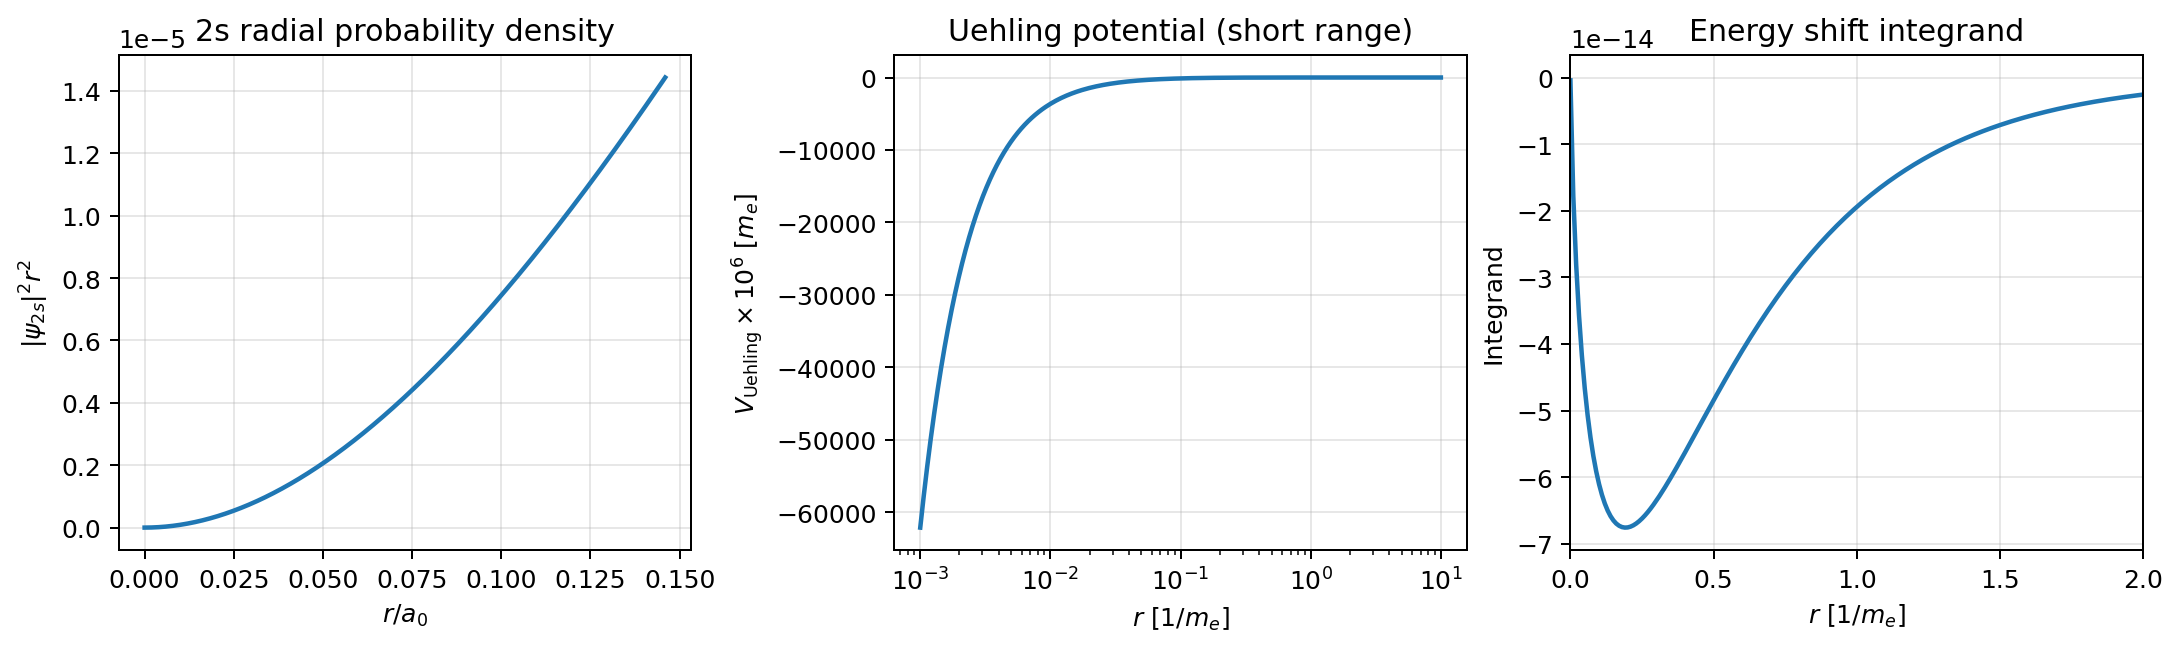
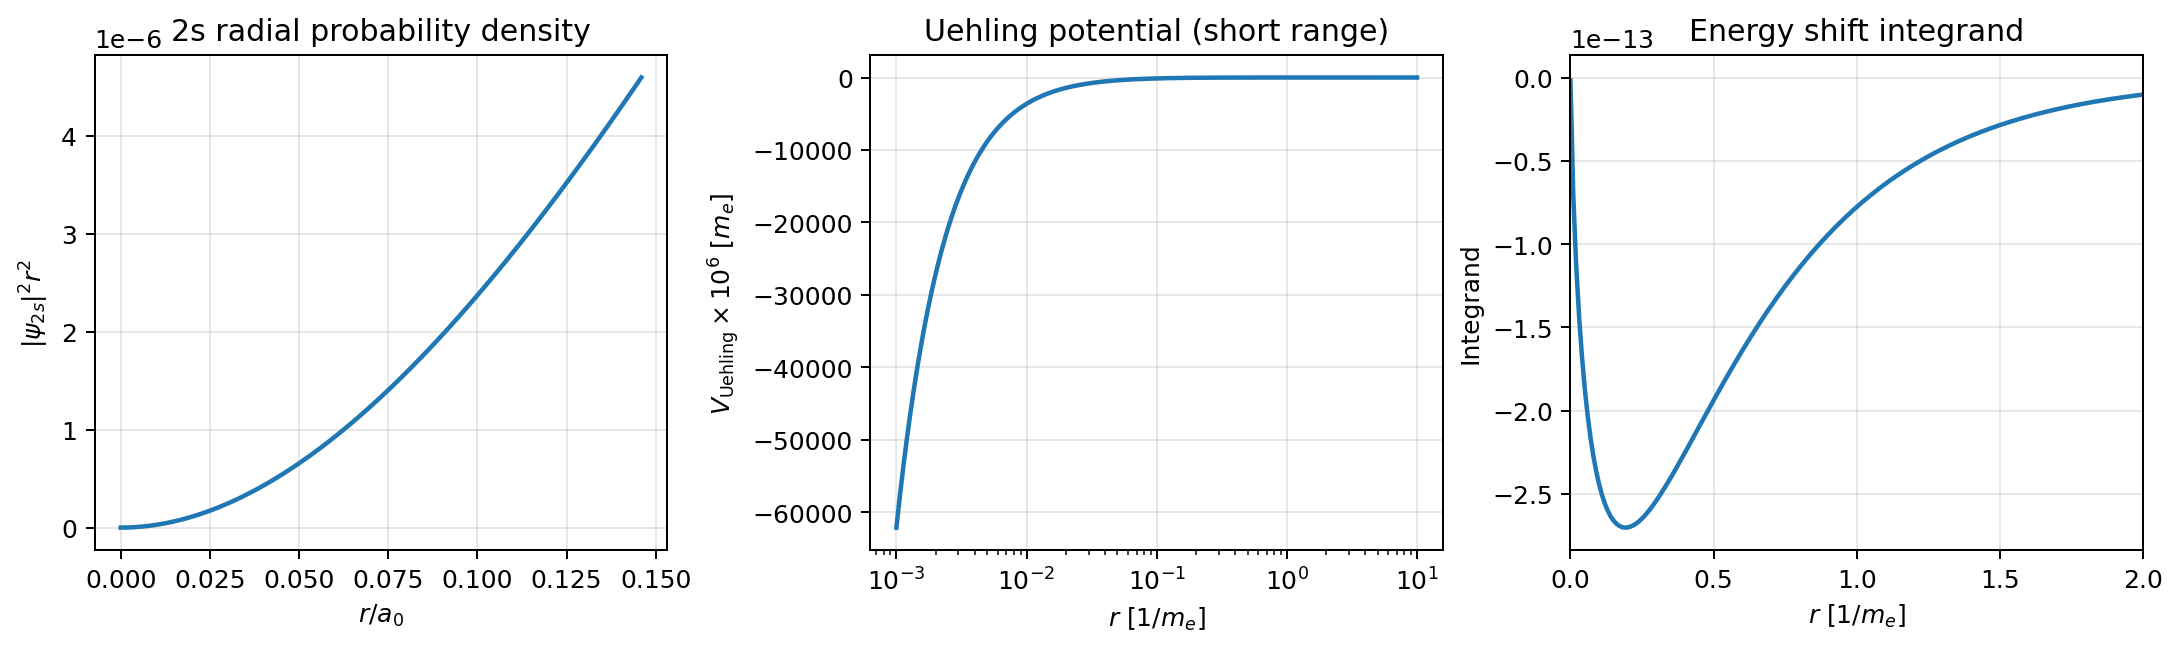
correcting errors

diff --git a/python/lamb_shift.py b/python/lamb_shift.py
@@ -4,84 +4,172 @@ lamb_shift.py
 First-order perturbation theory estimate of the Uehling contribution
 to the hydrogen 2s Lamb shift.
 
-Natural units throughout: hbar = c = m_e = 1.
-Bohr radius a0 = 1/alpha ~ 137.036 (in units of 1/m_e).
+Natural units throughout:
+    ħ = c = m_e = 1
+
+Bohr radius:
+    a0 = 1 / alpha ≈ 137.036  (in units of 1/m_e)
 """
 
 import numpy as np
 from scipy.integrate import quad
+
 from uehling import V_uehling, ALPHA
 
-# Bohr radius in natural units (1/m_e)
-A0 = 1 / ALPHA   # ~ 137.036
+# --------------------------------------------------
+# Constants
+# --------------------------------------------------
+
+# Bohr radius in natural units (1 / m_e)
+A0 = 1.0 / ALPHA
 
 
 def psi_2s(r: float) -> float:
     """
-    Hydrogen 2s radial wavefunction in natural units.
-    R_20(r) such that the full wavefunction is psi = R_20(r) * Y_00.
+    Full hydrogen 2s spatial wavefunction ψ_200(r).
 
-    Normalized: integral |psi|^2 r^2 dr = 1
+    Includes the Y_00 angular normalization.
+
+    Normalization:
+        ∫ |ψ|² d³r = 1
     """
+
     rho = r / A0
-    norm = (1 / A0) ** (3/2) / (4 * np.sqrt(2))
-    return norm * (2 - rho) * np.exp(-rho / 2)
+
+    # Full 3D normalized 2s wavefunction
+    norm = (1.0 / A0) ** (3.0 / 2.0) / (
+        4.0 * np.sqrt(2.0 * np.pi)
+    )
+
+    return norm * (2.0 - rho) * np.exp(-rho / 2.0)
 
 
 def integrand_lamb(r: float) -> float:
     """
-    Integrand for the energy shift:
-    |psi_2s(r)|^2 * V_Uehling(r) * r^2
-    """
-    psi = psi_2s(r)
-    return psi**2 * V_uehling(r) * r**2
+    Radial integrand for the Uehling energy correction.
 
+    Since ψ already includes Y_00 normalization,
+    the angular integration contributes a factor 4π.
+    """
+
+    psi = psi_2s(r)
+
+    return 4.0 * np.pi * psi**2 * V_uehling(r) * r**2
+    
 
 def compute_uehling_lamb_shift() -> dict:
     """
-    Compute the Uehling contribution to the hydrogen 2s energy shift.
+    Compute the Uehling contribution to the hydrogen 2s Lamb shift.
 
-    Returns a dict with the result in natural units, meV, and MHz.
+    Returns
+    -------
+    dict
+        Energy shift in:
+            - natural units (m_e)
+            - meV
+            - MHz
     """
-    # Integration range: Uehling potential is negligible beyond r ~ 0.1/m_e
-    # But the wavefunction extends to r ~ a0 ~ 137, so we integrate fully
-    # Use a split to handle the sharp Uehling feature near r=0
-    result, error = quad(
+
+    # --------------------------------------------------
+    # Split integration region
+    # --------------------------------------------------
+    #
+    # Near r = 0:
+    #     Uehling potential varies rapidly
+    #
+    # Large r:
+    #     exponentially suppressed
+    #
+    # SciPy does not allow:
+    #     np.inf together with points=[...]
+    #
+    # therefore split integral manually.
+    # --------------------------------------------------
+
+    # Short-distance region
+    result1, err1 = quad(
         integrand_lamb,
         0.0,
-        np.inf,
+        1.0,
+        points=[1e-4, 1e-3, 1e-2, 1e-1],
         limit=500,
-        points=[0.001, 0.01, 0.1, 1.0],  # hint the integrator about structure
         epsabs=1e-20,
         epsrel=1e-8,
     )
 
-    # Convert to physical units
-    # result is in m_e (natural units)
-    # 1 m_e = 0.51099895 MeV = 510998.95 meV
-    me_to_meV = 510998.95   # meV per m_e
-    # 1 meV = 241.799 MHz (via E = h*f)
-    meV_to_MHz = 241.799
+    # Long-distance tail
+    result2, err2 = quad(
+        integrand_lamb,
+        1.0,
+        np.inf,
+        limit=500,
+        epsabs=1e-20,
+        epsrel=1e-8,
+    )
+
+    result = result1 + result2
+    error = err1 + err2
+
+    # --------------------------------------------------
+    # Unit conversions
+    # --------------------------------------------------
+
+    # 1 electron mass = 0.51099895 MeV
+    #
+    # Convert:
+    #   MeV → eV : ×10^6
+    #   eV  → meV: ×10^3
+    #
+    # Therefore:
+    #   1 m_e = 5.1099895 × 10^8 meV
+    #
+    me_to_meV = 5.1099895e8
+
+    # Energy-frequency conversion:
+    #
+    #   1 meV = 241.799 GHz
+    #
+    # Therefore:
+    #   1 meV = 241799 MHz
+    #
+    meV_to_MHz = 241799.0
 
     result_meV = result * me_to_meV
     result_MHz = result_meV * meV_to_MHz
 
     return {
         "delta_E_natural": result,
-        "delta_E_meV":     result_meV,
-        "delta_E_MHz":     result_MHz,
+        "delta_E_meV": result_meV,
+        "delta_E_MHz": result_MHz,
         "integration_error": error,
     }
 
 
-if __name__ == "__main__":
+def main():
+
     print("Computing Uehling contribution to hydrogen 2s Lamb shift...")
+
     res = compute_uehling_lamb_shift()
 
-    print(f"\nResult:")
+    print("\nResult:")
     print(f"  ΔE (natural units) = {res['delta_E_natural']:.6e} m_e")
-    print(f"  ΔE                 = {res['delta_E_meV']:.4f} meV")
-    print(f"  ΔE                 = {res['delta_E_MHz']:.2f} MHz")
+    print(f"  ΔE                 = {res['delta_E_meV']:.6e} meV")
+    print(f"  ΔE                 = {res['delta_E_MHz']:.3f} MHz")
     print(f"  Integration error  = {res['integration_error']:.2e}")
-    print(f"\nKnown value (Uehling contribution to 2s₁/₂ Lamb shift): ~ -27.2 MHz")
-    print(f"Agreement: {abs(res['delta_E_MHz'] - (-27.2)) / 27.2 * 100:.1f}% deviation")
+
+    known_value = -27.2
+
+    deviation = (
+        abs(res["delta_E_MHz"] - known_value)
+        / abs(known_value)
+        * 100.0
+    )
+
+    print("\nReference value:")
+    print("  Uehling contribution to hydrogen 2s Lamb shift ≈ -27.2 MHz")
+
+    print(f"Deviation from reference: {deviation:.2f}%")
+
+
+if __name__ == "__main__":
+    main()